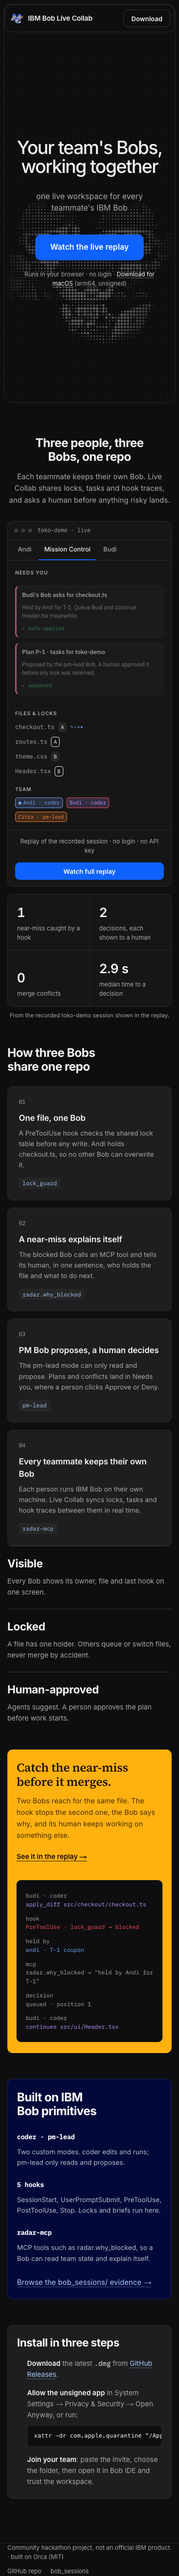
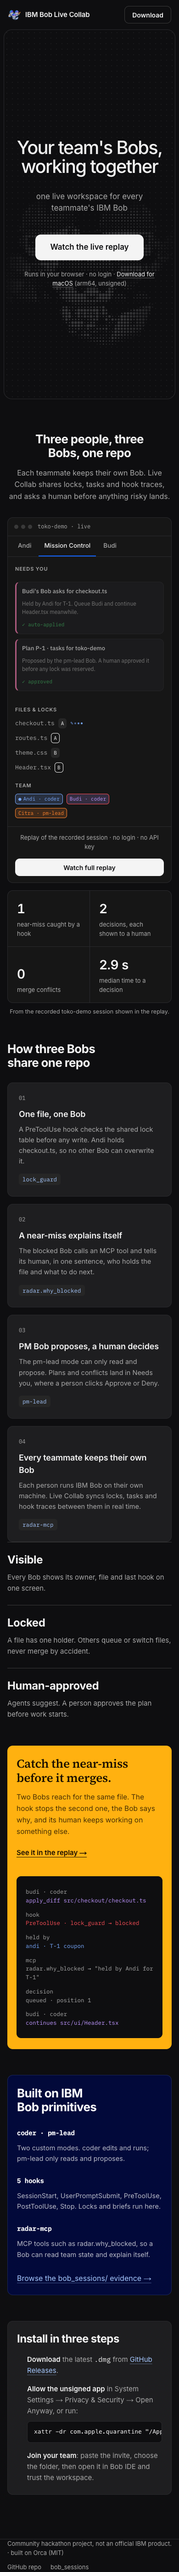
fase-11D1: full-width nav that morphs on scroll, white primary button
- Nav spans the page at the top and becomes a floating pill once the
  page scrolls; sections below the fold reveal on scroll (CSS view
  timeline, no JS)
- Primary button is white; halftone crew opacity 0.34 -> 0.18

diff --git a/radar/packages/web/app/page.tsx b/radar/packages/web/app/page.tsx
@@ -1,4 +1,5 @@
 import { Inter, Source_Serif_4 } from 'next/font/google';
+import { LandingNav } from '../src/landing-nav';
 import { LandingProductWindow } from '../src/landing-product-window';
 import { SITE } from '../src/site';
 import metaRaw from '../public/demo/meta.json';
@@ -100,27 +101,13 @@ export default function HomePage() {
         Skip to content
       </a>
 
-      <header className="lp-nav">
-        <a href="/" className="lp-wordmark">
-          {/* Plain <img>: static export has no image optimizer. */}
-          <img src="/brand/bob-crew.png" alt="" width={28} height={28} />
-          {SITE.title}
-        </a>
-        <nav aria-label="Primary" className="lp-nav-links">
-          <a href={SITE.demoPath} className="lp-nav-link lp-hide-sm">
-            Replay
-          </a>
-          <ExternalLink href={links.bobSessions} className="lp-nav-link lp-hide-sm">
-            bob_sessions
-          </ExternalLink>
-          <ExternalLink href={links.repoUrl} className="lp-nav-link lp-hide-sm">
-            GitHub
-          </ExternalLink>
-          <ExternalLink href={downloadUrl} className="lp-btn lp-btn-outline lp-btn-sm">
-            Download
-          </ExternalLink>
-        </nav>
-      </header>
+      <LandingNav
+        title={SITE.title}
+        demoPath={SITE.demoPath}
+        bobSessionsUrl={links.bobSessions}
+        repoUrl={links.repoUrl}
+        downloadUrl={downloadUrl}
+      />
 
       <main id="main">
         {/* Hero: one screen, one message, one button (Amoeba-like structure, our own brand). */}
@@ -147,7 +134,7 @@ export default function HomePage() {
         </section>
 
         {/* 18a-1..3: product window */}
-        <section className="lp-wrap lp-product" aria-labelledby="lp-see">
+        <section className="lp-wrap lp-product lp-reveal" aria-labelledby="lp-see">
           <h2 id="lp-see" className="lp-h2 lp-h2-center">
             Three people, three Bobs, one repo
           </h2>
@@ -168,7 +155,7 @@ export default function HomePage() {
         </section>
 
         {/* 18a-4: four mechanisms */}
-        <section className="lp-wrap lp-section" aria-labelledby="lp-how">
+        <section className="lp-wrap lp-section lp-reveal" aria-labelledby="lp-how">
           <h2 id="lp-how" className="lp-h2">
             How three Bobs share one repo
           </h2>
@@ -187,7 +174,7 @@ export default function HomePage() {
         </section>
 
         {/* 18a-4: three words */}
-        <section className="lp-wrap lp-words" aria-label="Principles">
+        <section className="lp-wrap lp-words lp-reveal" aria-label="Principles">
           {WORDS.map((w) => (
             <div key={w.word} className="lp-word">
               <h3>{w.word}</h3>
@@ -197,7 +184,7 @@ export default function HomePage() {
         </section>
 
         {/* Near-miss accent block. TODO(sync:imelda): add the near-miss GIF after the fase 10 recording. */}
-        <section className="lp-wrap lp-section" aria-labelledby="lp-nearmiss">
+        <section className="lp-wrap lp-section lp-reveal" aria-labelledby="lp-nearmiss">
           <div className="lp-marigold">
             <div className="lp-marigold-copy">
               <h2 id="lp-nearmiss">Catch the near-miss before it merges.</h2>
@@ -221,7 +208,7 @@ export default function HomePage() {
         </section>
 
         {/* Primitives (navy island) */}
-        <section className="lp-wrap lp-section" aria-labelledby="lp-primitives">
+        <section className="lp-wrap lp-section lp-reveal" aria-labelledby="lp-primitives">
           <div className="lp-navy">
             <h2 id="lp-primitives" className="lp-h2">
               Built on IBM Bob primitives
@@ -241,7 +228,7 @@ export default function HomePage() {
         </section>
 
         {/* Install */}
-        <section className="lp-wrap lp-section" aria-labelledby="lp-install">
+        <section className="lp-wrap lp-section lp-reveal" aria-labelledby="lp-install">
           <div className="lp-install">
             <h2 id="lp-install" className="lp-h2">
               Install in three steps

diff --git a/radar/packages/web/app/globals.css b/radar/packages/web/app/globals.css
@@ -59,25 +59,40 @@ body {
   top: 12px;
 }
 
-/* Nav: floating pill */
+/* Nav: full-width bar at the top, morphs into a floating pill on scroll (src/landing-nav.tsx) */
 .lp-nav {
   position: fixed;
-  top: 14px;
+  top: 0;
   left: 50%;
   z-index: 50;
   transform: translateX(-50%);
-  width: min(1040px, calc(100% - 32px));
-  height: 60px;
+  width: min(1320px, calc(100% - 48px));
+  height: 80px;
   display: flex;
   align-items: center;
   justify-content: space-between;
   gap: 16px;
+  padding: 0 4px;
+  background: rgba(14, 14, 16, 0);
+  border: 1px solid transparent;
+  border-radius: 14px;
+  transition:
+    top 420ms var(--lp-ease),
+    width 420ms var(--lp-ease),
+    height 420ms var(--lp-ease),
+    padding 420ms var(--lp-ease),
+    background-color 420ms ease,
+    border-color 420ms ease;
+}
+.lp-nav[data-scrolled='true'] {
+  top: 14px;
+  width: min(1040px, calc(100% - 32px));
+  height: 60px;
   padding: 0 12px 0 18px;
-  background: rgba(14, 14, 16, 0.78);
+  background: rgba(14, 14, 16, 0.8);
+  border-color: var(--lc-border);
   backdrop-filter: blur(12px);
   -webkit-backdrop-filter: blur(12px);
-  border: 1px solid var(--lc-border);
-  border-radius: 14px;
 }
 .lp-wordmark {
   display: inline-flex;
@@ -142,11 +157,11 @@ body {
   border-radius: 12px;
 }
 .lp-btn-primary {
-  background: var(--lc-accent);
-  color: #fff;
+  background: var(--lc-text);
+  color: var(--lc-bg);
 }
 .lp-btn-primary:hover {
-  background: #0353e9;
+  background: #ffffff;
 }
 .lp-btn-outline {
   color: var(--lc-text);
@@ -162,8 +177,8 @@ body {
   display: flex;
   align-items: center;
   justify-content: center;
-  min-height: max(640px, calc(100svh - 32px));
-  margin: 16px;
+  min-height: max(620px, calc(100svh - 96px));
+  margin: 80px 16px 16px;
   overflow: hidden;
   border: 1px solid var(--lc-border);
   border-radius: 24px;
@@ -176,12 +191,12 @@ body {
   background: url('/brand/bob-crew-halftone.svg') no-repeat 50% 64% / min(80vh, 780px);
   -webkit-mask-image: radial-gradient(ellipse at 50% 60%, #000 35%, transparent 72%);
   mask-image: radial-gradient(ellipse at 50% 60%, #000 35%, transparent 72%);
-  opacity: 0.34;
+  opacity: 0.18;
   animation: lp-fade 1200ms ease-out both;
 }
 .lp-hero {
   position: relative;
-  padding: 120px 24px 80px;
+  padding: 72px 24px 72px;
   text-align: center;
 }
 .lp-hero > * {
@@ -248,6 +263,24 @@ body {
 @keyframes lp-fade {
   from {
     opacity: 0;
+  }
+}
+
+@supports (animation-timeline: view()) {
+  .lp-reveal {
+    animation: lp-reveal linear both;
+    animation-timeline: view();
+    animation-range: entry 0% entry 60%;
+  }
+}
+@keyframes lp-reveal {
+  from {
+    opacity: 0;
+    transform: translateY(24px);
+  }
+  to {
+    opacity: 1;
+    transform: translateY(0);
   }
 }
 
@@ -762,12 +795,17 @@ body {
 
 @media (max-width: 640px) {
   .lp-nav {
+    width: calc(100% - 24px);
+    height: 64px;
+  }
+  .lp-nav[data-scrolled='true'] {
     top: 10px;
     width: calc(100% - 20px);
+    height: 56px;
     padding: 0 8px 0 12px;
   }
   .lp-stage {
-    margin: 8px;
+    margin: 64px 8px 8px;
     border-radius: 18px;
   }
   .lp-halftone {
@@ -781,7 +819,7 @@ body {
     padding: 0 16px;
   }
   .lp-hero {
-    padding: 104px 16px 56px;
+    padding: 56px 16px 56px;
   }
   .lp-product {
     padding-top: 64px;
@@ -815,6 +853,10 @@ body {
 }
 
 @media (prefers-reduced-motion: reduce) {
+  .lp-nav {
+    transition: none;
+  }
+  .lp-reveal,
   .lp-halftone,
   .lp-hero > *,
   .lp-window-body,

diff --git a/radar/packages/web/src/landing-nav.tsx b/radar/packages/web/src/landing-nav.tsx
@@ -1,0 +1,56 @@
+'use client';
+
+import { useEffect, useState } from 'react';
+
+// Full-width bar at the top of the page; morphs into a floating pill once the page scrolls.
+export function LandingNav({
+  title,
+  demoPath,
+  bobSessionsUrl,
+  repoUrl,
+  downloadUrl,
+}: {
+  title: string;
+  demoPath: string;
+  bobSessionsUrl: string;
+  repoUrl: string;
+  downloadUrl: string;
+}) {
+  const [scrolled, setScrolled] = useState(false);
+
+  useEffect(() => {
+    const onScroll = () => setScrolled(window.scrollY > 24);
+    onScroll();
+    window.addEventListener('scroll', onScroll, { passive: true });
+    return () => window.removeEventListener('scroll', onScroll);
+  }, []);
+
+  return (
+    <header className="lp-nav" data-scrolled={scrolled}>
+      <a href="/" className="lp-wordmark">
+        {/* Plain <img>: static export has no image optimizer. */}
+        <img src="/brand/bob-crew.png" alt="" width={28} height={28} />
+        {title}
+      </a>
+      <nav aria-label="Primary" className="lp-nav-links">
+        <a href={demoPath} className="lp-nav-link lp-hide-sm">
+          Replay
+        </a>
+        <a href={bobSessionsUrl} className="lp-nav-link lp-hide-sm" target="_blank" rel="noopener noreferrer">
+          bob_sessions
+        </a>
+        <a href={repoUrl} className="lp-nav-link lp-hide-sm" target="_blank" rel="noopener noreferrer">
+          GitHub
+        </a>
+        <a
+          href={downloadUrl}
+          className="lp-btn lp-btn-outline lp-btn-sm"
+          target="_blank"
+          rel="noopener noreferrer"
+        >
+          Download
+        </a>
+      </nav>
+    </header>
+  );
+}

diff --git a/plan/log/fase-11D1.md b/plan/log/fase-11D1.md
@@ -140,6 +140,18 @@ Pemicu user: "kurang clean … pas awal masuk udah penuh banget tulisannya … b
 
 Verifikasi: typecheck bersih · test 48/48 · eslint web bersih · build bersih · Playwright 18/18 (1440 + 390) · `scrollWidth` 1440/390 · 0 error console. Screenshot: `plan/log/ui-11D1/landing-{1440,390}.png`.
 
+## Sesi 26 Sep 18:40 · nav full-width + animasi scroll, tombol putih
+
+Permintaan user: nav full-width seperti Amoeba, animasi saat scroll, tombol "Watch the live replay" putih, opasitas ikon lebih tipis.
+
+- `src/landing-nav.tsx` (baru, client): di atas halaman nav = bar full-width transparan di atas stage; setelah `scrollY > 24` berubah jadi pill mengambang (top/lebar/tinggi/latar transisi 420 ms, ease-out). Listener `scroll` pasif.
+- Section di bawah fold (`.lp-reveal`) muncul naik 24px lewat CSS `animation-timeline: view()` — tanpa JS; browser tanpa dukungan langsung menampilkan konten.
+- `.lp-btn-primary` jadi putih (`--lc-text` di atas, teks `--lc-bg`) — berlaku juga untuk "Watch full replay" di window, supaya satu gaya tombol utama. Menyimpang dari DESIGN §5.11 (IBM Blue), lihat D-imelda-11.
+- Siluet halftone opasitas 0.34 → 0.18.
+- Semua motion mati di `prefers-reduced-motion`.
+
+Verifikasi: typecheck · test 48/48 · eslint web · build · Playwright 18/18 · `scrollWidth` 1440/390 · 0 error console · state `data-scrolled` dicek setelah scroll.
+
 ## Deviasi (lihat `plan/log/DECISIONS.md`)
 
 - **D-imelda-01**: fixture diambil dari `radar/scripts/mock-scenarios/demo.json` (skenario Alief, hanya dibaca) via capture `GET /v1/events/export`, di-*re-timestamp* dari `delayMs` kumulatifnya sendiri, ditambah satu `commit.created` sintetis di akhir untuk chapter "Commit". **TODO(sync:alief)**: ganti dengan `GET /v1/events/export` server asli setelah fase 05/06, dan dengan rekaman nyata setelah milestone fase 10 (di 11D2).

diff --git a/plan/log/DECISIONS.md b/plan/log/DECISIONS.md
@@ -330,6 +330,6 @@ Format:
 
 - Keputusan: layar pertama landing = satu pesan saja: nav pill mengambang (logo app + 3 link + Download), judul besar tanpa pill marigold, satu baris sub, **satu** tombol IBM Blue "Watch the live replay", caption dengan link "Download for macOS (arm64, unsigned)". Latar = siluet halftone logo app (`app/resources/icon.png` → `public/brand/bob-crew-halftone.svg` lewat `scripts/halftone-logo.py`). Semua konten lain (window produk, angka, mekanisme, near-miss, primitif, pasang) turun di bawah fold.
 - Alasan: permintaan user — layar pertama terlalu penuh tulisan. Struktur Amoeba (bukan mereknya).
-- Menyimpang dari DESIGN §5.11: pill marigold di hero dan tombol ghost kedua dihapus; teks "Privacy & Security → Open Anyway" pindah penuh ke bagian pasang (caption hero tetap sebut arm64 + unsigned).
+- Menyimpang dari DESIGN §5.11: pill marigold di hero dan tombol ghost kedua dihapus; tombol utama putih (bukan IBM Blue) atas permintaan user; nav full-width yang berubah jadi pill saat scroll; teks "Privacy & Security → Open Anyway" pindah penuh ke bagian pasang (caption hero tetap sebut arm64 + unsigned).
 - File ref/ yang diperbarui: –
 
